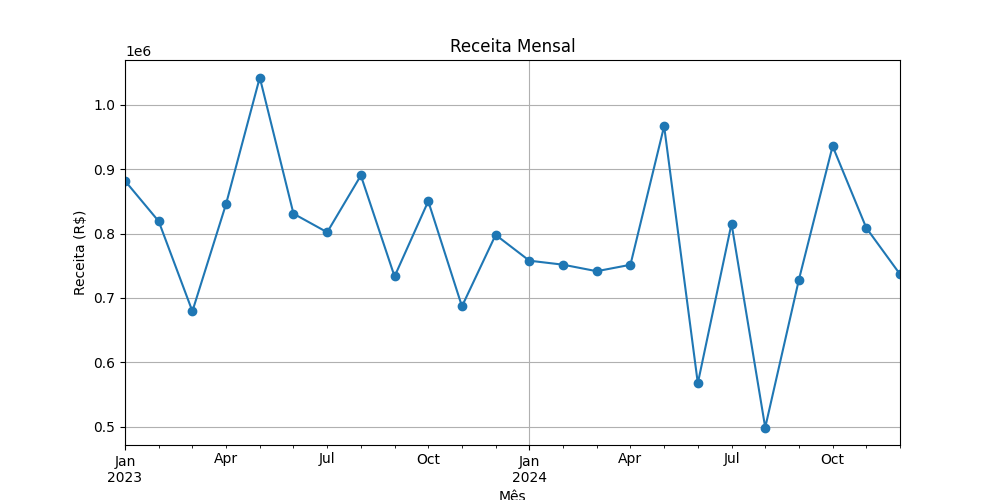
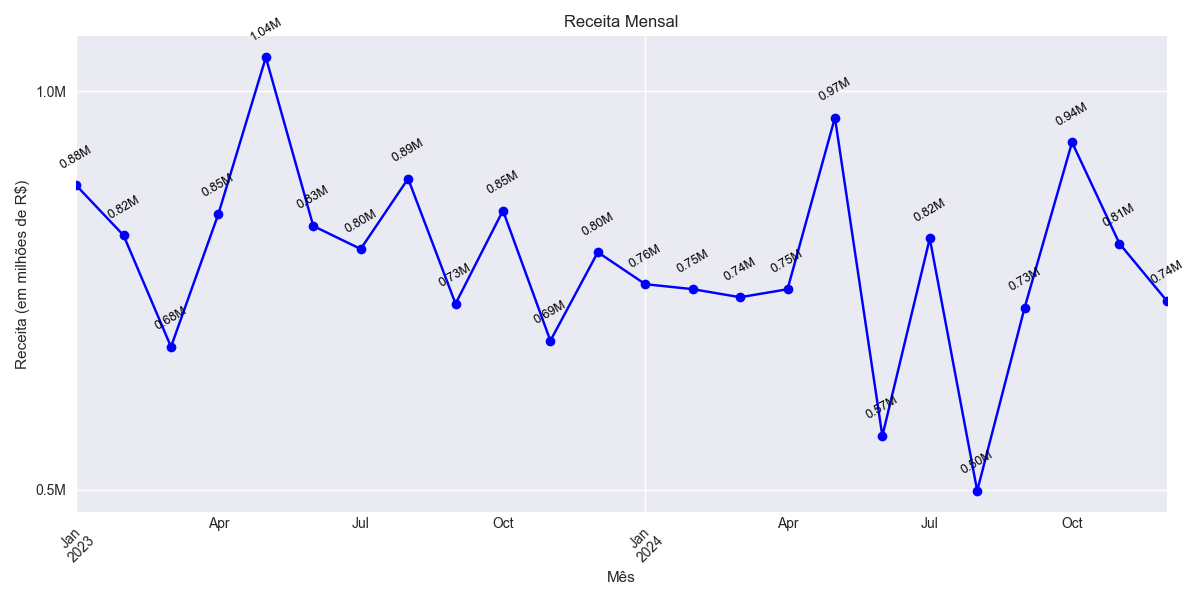
ajuste no código e visualuzação dos gráficos

diff --git a/src/analise.py b/src/analise.py
@@ -1,31 +1,100 @@
 import pandas as pd
 import matplotlib.pyplot as plt
 
-# Carregar dataset
+# ==============================
+# Leitura e preparação dos dados
+# ==============================
 df = pd.read_csv("data/vendas.csv", parse_dates=["data"])
+df.dropna(subset=["produto", "quantidade", "preco_unitario"], inplace=True)
 
-# Estatísticas básicas
-print("📊 Estatísticas gerais:")
+if "valor_total" not in df.columns:
+    df["valor_total"] = df["quantidade"] * df["preco_unitario"]
+
+# Estatísticas
+print("\n📊 Estatísticas gerais:")
 print(df.describe())
 
-# Receita total
 receita_total = df["valor_total"].sum()
 print(f"\n💰 Receita Total: R$ {receita_total:,.2f}")
 
-# Top 5 produtos mais vendidos em quantidade
-top_produtos = df.groupby("produto")["quantidade"].sum().sort_values(ascending=False).head(5)
-print("\n🏆 Top 5 produtos mais vendidos:")
+receita_media = df["valor_total"].mean()
+print(f"📈 Receita Média por venda: R$ {receita_media:,.2f}")
+
+top_produtos = (
+    df.groupby("produto")["quantidade"]
+    .sum()
+    .sort_values(ascending=False)
+    .head(5)
+)
+print("\n🏆 Top 5 produtos mais vendidos (em quantidade):")
 print(top_produtos)
 
-# Receita mensal
+# ==============================
+# Análises temporais
+# ==============================
 df["mes"] = df["data"].dt.to_period("M")
 receita_mensal = df.groupby("mes")["valor_total"].sum()
+qtd_mensal = df.groupby("mes")["quantidade"].sum()
 
-# Gráfico de receita mensal
-plt.figure(figsize=(10,5))
-receita_mensal.plot(kind="line", marker="o")
-plt.title("Receita Mensal")
-plt.xlabel("Mês")
-plt.ylabel("Receita (R$)")
-plt.grid(True)
+plt.style.use("seaborn-v0_8")
+
+# ==============================
+# Gráfico 1: Receita mensal
+# ==============================
+fig, ax = plt.subplots(figsize=(12,6))
+receita_mensal.plot(kind="line", marker="o", color="blue", ax=ax)
+
+for x, y in zip(receita_mensal.index.astype(str), receita_mensal.values):
+    ax.annotate(f"{y/1e6:.2f}M", 
+                (x, y),
+                textcoords="offset points", 
+                xytext=(0,10),
+                ha="center", 
+                va="bottom",
+                fontsize=9,
+                color="black",
+                rotation=30)
+
+ax.set_title("Receita Mensal")
+ax.set_xlabel("Mês")
+ax.set_ylabel("Receita (em milhões de R$)")
+
+# Mostra apenas 0.5 e 1.0 no eixo Y
+ax.set_yticks([0.5e6, 1.0e6])  
+ax.set_yticklabels(["0.5M", "1.0M"])  
+
+plt.xticks(rotation=45)
+plt.tight_layout()
+plt.savefig("img/receita_mensal.png")
+plt.show()
+
+# ==============================
+# Gráfico 2: Quantidade de vendas por mês
+# ==============================
+fig, ax = plt.subplots(figsize=(12,6))
+barras = qtd_mensal.plot(kind="bar", color="green", ax=ax)
+
+ax.set_title("Quantidade de Vendas por Mês")
+ax.set_xlabel("Mês")
+ax.set_ylabel("Quantidade")
+
+ax.bar_label(barras.containers[0], fmt="%.0f", fontsize=9)
+plt.xticks(rotation=45)
+plt.tight_layout()
+plt.savefig("img/quantidade_mensal.png")
+plt.show()
+
+# ==============================
+# Gráfico 3: Top 5 produtos mais vendidos
+# ==============================
+fig, ax = plt.subplots(figsize=(8,5))
+barras = top_produtos.plot(kind="barh", color="orange", ax=ax)
+
+ax.set_title("Top 5 Produtos Mais Vendidos")
+ax.set_xlabel("Quantidade")
+ax.set_ylabel("Produto")
+
+ax.bar_label(barras.containers[0], fmt="%.0f", fontsize=9)
+plt.tight_layout()
+plt.savefig("img/top_produtos.png")
 plt.show()
